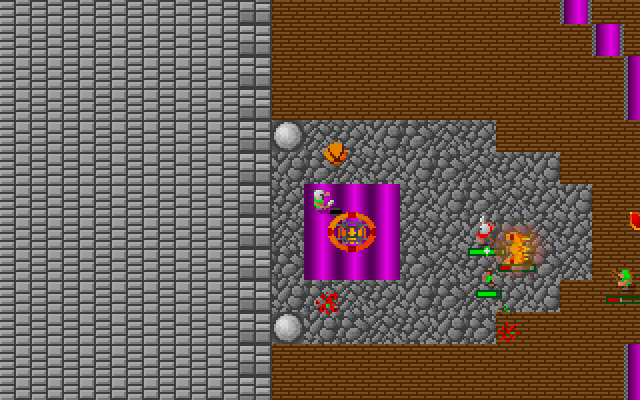
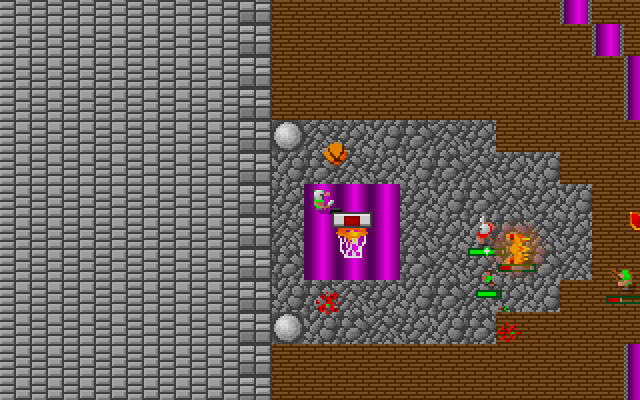
PR 190 proof media refresh: 3/4-view hoop redesign

Changed region(s): [[0.5, 0.51, 0.5938, 0.66]]

diff --git a/pr-190/manifest.md b/pr-190/manifest.md
@@ -15,16 +15,21 @@ changes landed after the original 2026-08-06 captures — Teams: Match bot-squad
 fill (`456fafb7`) and the D28 throw-release refund (`4c695a48`) — so the old
 frame windows no longer reproduce on this tree; every window was re-located on
 the new timeline by the same announce/ball/hoop frame-scan method, never
-spliced. The intended visual deltas from the 2026-08-06 artifacts are the
-dedicated hoop sprite (D29: orange rim ring + net, team tick marks) wherever a
-rim is in frame, and the net-ripple swish frames at made baskets and dunks.
+spliced. The set was recaptured once more after the hoop redesign
+(`bdbbb003`), which is render-only: the same windows reproduce with every
+announce on the identical tick, and the two artifacts that hold no hoop
+(court-826.png, four-hoops.gif) came back byte-identical to the pre-redesign
+files. The intended visual deltas from the 2026-08-06 artifacts are the
+3/4-view hoop sprite (D29 + `bdbbb003`: white backboard with a team-tinted
+target block, solid orange rim, bright white net hanging below) wherever a
+hoop is in frame, and the net-ripple swish frames at made baskets and dunks.
 
 | file | reproduction | caption |
 |------|--------------|---------|
-| court-824.png | `OPENGLAD_DEMO_SEED=11 OPENGLAD_DEMO_SCENARIOS=824 OPENGLAD_DEMO_CAPTURE_FOCUS=boss OPENGLAD_DEMO_CAPTURE_LIMIT=2500`, frame 01206 | CENTER COURT's west hoop: the ball hangs at the top of its arc over the key, its ground shadow marking the landing spot at the shooter's feet, the rim sprite — orange ring, red team ticks, net at rest — waiting on its carpet pad below. |
-| court-825.png | `OPENGLAD_DEMO_SEED=5 OPENGLAD_DEMO_SCENARIOS=825 OPENGLAD_DEMO_CAPTURE_FOCUS=boss OPENGLAD_DEMO_CAPTURE_LIMIT=2200`, frame 00600 | THE PLAYGROUND: cramped half-court walls, short arc, and "BASKET! GREEN +2" going up as the shooter holds the key beside the scored-on rim, its net still mid-ripple. |
+| court-824.png | `OPENGLAD_DEMO_SEED=11 OPENGLAD_DEMO_SCENARIOS=824 OPENGLAD_DEMO_CAPTURE_FOCUS=boss OPENGLAD_DEMO_CAPTURE_LIMIT=2500`, frame 01206 | CENTER COURT's west hoop: the ball hangs at the top of its arc over the key, its ground shadow marking the landing spot at the shooter's feet, the hoop sprite — white backboard with its red target block, orange rim, net at rest — waiting on its carpet pad below. |
+| court-825.png | `OPENGLAD_DEMO_SEED=5 OPENGLAD_DEMO_SCENARIOS=825 OPENGLAD_DEMO_CAPTURE_FOCUS=boss OPENGLAD_DEMO_CAPTURE_LIMIT=2200`, frame 00600 | THE PLAYGROUND: cramped half-court walls, short arc, and "BASKET! GREEN +2" going up as the shooter holds the key beside the scored-on hoop, its net still mid-ripple. |
 | court-826.png | `OPENGLAD_DEMO_SEED=7 OPENGLAD_DEMO_SCENARIOS=826 OPENGLAD_DEMO_CAPTURE_FOCUS=center OPENGLAD_DEMO_CAPTURE_LIMIT=2500`, frame 00033 | FOUR HOOPS: the ball waits on the centre circle at the opening tip while all four bands — red, green, blue, yellow — close in under "BASKETBALL! FIRST TO 21". |
-| court-827.png | `OPENGLAD_DEMO_SEED=5 OPENGLAD_DEMO_SCENARIOS=827 OPENGLAD_DEMO_CAPTURE_FOCUS=boss OPENGLAD_DEMO_CAPTURE_LIMIT=2200`, frame 01610 | THE BANKHOUSE: a shot arcs into the west key past the wing pillars that make straight lanes die and banks live, its ground shadow already down beside the rim sprite on the tile where it will drop. |
+| court-827.png | `OPENGLAD_DEMO_SEED=5 OPENGLAD_DEMO_SCENARIOS=827 OPENGLAD_DEMO_CAPTURE_FOCUS=boss OPENGLAD_DEMO_CAPTURE_LIMIT=2200`, frame 01610 | THE BANKHOUSE: a shot arcs into the west key past the wing pillars that make straight lanes die and banks live, its ground shadow already down beside the hoop sprite on the tile where it will drop. |
 | court-828.png | `OPENGLAD_DEMO_SEED=5 OPENGLAD_DEMO_SCENARIOS=828 OPENGLAD_DEMO_CAPTURE_FOCUS=boss OPENGLAD_DEMO_CAPTURE_LIMIT=2200`, frame 00912 | BENCHWARMERS: a green skeleton substitute holds the west key as the net ripples for "BASKET! GREEN +2", the bone-pile bench that raised it visible in the wall above. |
 | shot-arc.gif | `OPENGLAD_DEMO_SEED=11 OPENGLAD_DEMO_SCENARIOS=824 OPENGLAD_DEMO_CAPTURE_FOCUS=boss OPENGLAD_DEMO_CAPTURE_LIMIT=2500`, frames 01178-01234 @ 0.08 s | A full possession on CENTER COURT: the carry rolls into the west key, the shooter lofts the ball — its ground shadow tracking beneath the arc — and it drops through the rim, the net rippling through its swish frames under "BASKET! GREEN +2". |
 | dunk-drive.gif | `OPENGLAD_DEMO_SEED=5 OPENGLAD_DEMO_SCENARIOS=828 OPENGLAD_DEMO_CAPTURE_FOCUS=boss OPENGLAD_DEMO_CAPTURE_LIMIT=2200`, frames 00458-00521 @ 0.08 s | A bench-raised skeleton catches the dropping rebound, carries the ball overhead down the lane past the closing defense, and walks the rim tile: "DUNK! GREEN +2", the net snapping through its ripple. |
@@ -44,28 +49,31 @@ second run of the 824 recipe reproduced all 2500 frame dumps byte-identical
 
 ## Hoop sprite refresh (D29-D32, PR #190)
 
-Captured 2026-08-09 on the PR #190 head — the same tree and timeline as the
-rows above (run A is the very run behind court-824.png and shot-arc.gif; run B
-differs from the court-826/four-hoops run only in its `boss` camera focus).
+Recaptured 2026-08-09 after the `bdbbb003` hoop redesign — the same tree and
+timeline as the rows above (run A is the very run behind court-824.png and
+shot-arc.gif; run B differs from the court-826/four-hoops run only in its
+`boss` camera focus).
 Same common env as above; two runs:
 
 - run A: `OPENGLAD_DEMO_SEED=11 OPENGLAD_DEMO_SCENARIOS=824 OPENGLAD_DEMO_CAPTURE_FOCUS=boss OPENGLAD_DEMO_CAPTURE_LIMIT=2500`
 - run B: `OPENGLAD_DEMO_SEED=7 OPENGLAD_DEMO_SCENARIOS=826 OPENGLAD_DEMO_CAPTURE_FOCUS=boss OPENGLAD_DEMO_CAPTURE_LIMIT=2500`
 
-The rim renders basketball-orange (static fire-ramp 232-235); team identity is
-the four compass tick marks in the 248-255 remap band. Crops are stated as
+The hoop is the `bdbbb003` 3/4-view sprite (24x26, rim-row anchored): white
+backboard on top, solid rim in the static fire-ramp 232-235, bright white net
+hanging below; team identity is the backboard's filled target block in the
+248-255 remap band. Crops are stated as
 `WxH+X+Y` on the native 320x200 dump; stills go through the same
 palettegen/paletteuse chain as above.
 
 | file | reproduction | caption |
 |------|--------------|---------|
-| hoop-idle-824.png | run A, frames 00450 (crop 110x96+10+2) + 01650 (crop 110x96+164+43), 4x, hstack | CENTER COURT's two rims at rest, one crop per goal: red-tick and green-tick rims idle on their carpet pads (one 320x200 window cannot hold both — the hoops sit 608 px apart). |
-| hoop-swish-824.png | run A, frame 01213, 2x full frame | "BASKET! GREEN +2" on the board while the scored-on rim's net holds swish frame 2 — stretched deep and narrow, mid-ripple — on the west carpet. |
-| hoop-swish-strip-824.png | run A, frames 01208/01210/01212/01213/01214/01215/01217/01219/01221, 44x40 rim crops, 5x | The whole made-basket ripple: net at rest, pushed wide (frame 1), stretched narrow (frame 2), snap-back overshoot (frame 3), settle. |
-| hoop-clang-824.png | run A, frame 01155, 2x full frame | A missed shot clangs off the west rim: the ring flashes gold-bright (clang frame 4) as the ball pops away over the key. |
-| hoop-clang-strip-824.png | run A, frames 01152/01154/01155/01156/01157/01158/01159/01161/01163, 44x40 rim crops, 5x | Idle rim, four bright gold-flecked clang ticks (frame 4), dim after-flash (frame 5), recovery. |
-| hoop-tints-826.png | run B, frames 00892 (crop 100x88+114+29), 00190 (100x88+186+23), 00443 (100x88+179+101), 01180 (100x88+3+29), 4x, 2x2 | FOUR HOOPS, all four goals: red, green, blue and yellow tick tints on live rims (656x656 px court — no single 320x200 frame holds four rims, so one crop per goal). |
-| hoop-frames.png | `python3` render of `campaigns/modes/packs/modes.core/sprites/hoop.png`: 6 frames x (neutral + 4 team tints via the walkputbuffer remap p>247 -> teamcolor+(255-p)) over cobble/carpet/hardwood grounds, 4x | Generator-truth sprite sheet: idle, swish 1-3, clang bright/dim, per team tint — the art the engine draws before camera and court get involved. |
+| hoop-idle-824.png | run A, frames 00450 (crop 110x96+10+2) + 01650 (crop 110x96+164+43), 4x, hstack | CENTER COURT's two hoops at rest, one crop per goal: red- and green-target backboards over idle nets on their carpet pads (one 320x200 window cannot hold both — the hoops sit 608 px apart). |
+| hoop-swish-824.png | run A, frame 01213, 2x full frame | "BASKET! GREEN +2" on the board while the scored-on hoop's net holds swish frame 2 — swung sideways mid-ripple — on the west carpet. |
+| hoop-swish-strip-824.png | run A, frames 01208/01210/01212/01213/01214/01215/01217/01219/01221, 44x40 hoop crops (tracking the panning camera), 5x | The whole made-basket ripple: net at rest, bulged deep under the ball (frame 1), swinging aside (frame 2), settling (frame 3), rest. |
+| hoop-clang-824.png | run A, frame 01155, 2x full frame | A missed shot clangs off the west hoop: the rim flashes gold-bright and jolts up a pixel (clang frame 4) as the ball pops away over the key. |
+| hoop-clang-strip-824.png | run A, frames 01152/01154/01155/01156/01157/01158/01159/01161/01163, 44x40 hoop crops (tracking the panning camera), 5x | Idle hoop, gold-glinted clang ticks with the rim jolted a pixel (frame 4), dim afterglow (frame 5), recovery. |
+| hoop-tints-826.png | run B, frames 00892 (crop 100x88+114+29), 00190 (100x88+186+23), 00443 (100x88+179+101), 01180 (100x88+3+29), 4x, 2x2 | FOUR HOOPS, all four goals: red, green, blue and yellow backboard target blocks on live hoops (656x656 px court — no single 320x200 frame holds four hoops, so one crop per goal). |
+| hoop-frames.png | `python3` render of `campaigns/modes/packs/modes.core/sprites/hoop.png`: 6 frames x (neutral + 4 team tints via the walkputbuffer remap p>247 -> teamcolor+(255-p)) over cobble/carpet/hardwood grounds, 4x | Generator-truth sprite sheet (24x26): backboard, rim and hanging net at idle, the swish 1-3 net ripple (bulge, swing, settle), clang bright/dim gold, per team tint — the art the engine draws before camera and court get involved. |
 
 Note on D32 item (5), "826 two-team partial spawn": not capturable by
 `openglad_demo` — the activation clamp reads the lobby `team_count`
